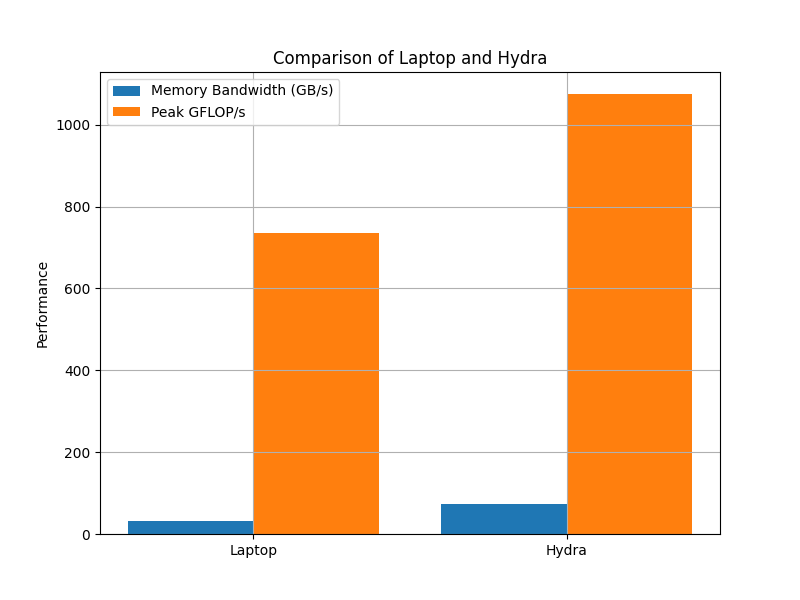
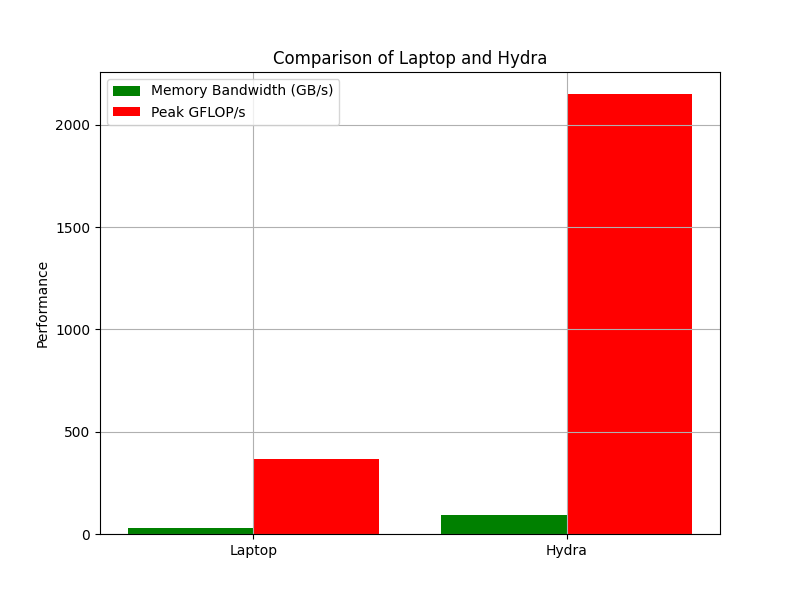
Updated roofline model calculations

diff --git a/roofline_model_plot.py b/roofline_model_plot.py
@@ -8,33 +8,34 @@ def parse_lscpu(file):
     with open(file) as f:
         text = f.read()
 
-    # logical cores (used for peak performance)
-    cores = int(re.search(r"CPU\(s\):\s+(\d+)", text).group(1))
 
-    # physical cores 
-    physical_cores_match = re.search(r"Core\(s\) per socket:\s+(\d+)", text)
+    # physical cores  = sockets × cores per socket   
+    sockets = int(re.search(r"Socket\(s\):\s+(\d+)", text).group(1))
+    cores_per_socket = int(re.search(r"Core\(s\) per socket:\s+(\d+)", text).group(1))
 
-    if physical_cores_match:
-        physical_cores = int(physical_cores_match.group(1))
-    else:
-        physical_cores = cores
+    physical_cores = sockets * cores_per_socket
 
     # detect AVX level and compute FLOPs/cycle
+    # NOTE: derived from SIMD width + FMA units
     flags = text.lower()
 
     if "avx512" in flags:
+        # 512-bit SIMD = 8 doubles per vector
+        # 2 FLOPs per FMA × 2 FMA units (Skylake-SP model)
         flops_per_cycle = 32
-        instruction_set = "AVX-512"
+        instruction_set = "AVX-512 (8 doubles × 2 FLOPs × 2 FMA units)"
 
     elif "avx2" in flags:
+        # 256-bit SIMD = 4 doubles per vector
+        # 2 FLOPs per FMA × 2 FMA units
         flops_per_cycle = 16
-        instruction_set = "AVX2"
+        instruction_set = "AVX2 (4 doubles × 2 FLOPs × 2 FMA units)"
 
     else:
         flops_per_cycle = 8
-        instruction_set = "SSE/Other"
+        instruction_set = "SSE/Other (fallback model)"
 
-    return cores, flops_per_cycle, instruction_set
+    return physical_cores, flops_per_cycle, instruction_set
 
 
 # Parse BabelStream output 
@@ -53,8 +54,8 @@ def parse_babel(file):
 
 # Frequency values for each machine (in MHz)
 FREQS = {
-    "Laptop": 2300,   # MHz (base frequency)
-    "Hydra": 2100     # MHz (Xeon base frequency)
+    "Laptop": 2300,   # 2.30 GHz sustained turbo frequency (from lscpu)
+    "Hydra": 2100     # 2.10 GHz base all-core frequency (from lscpu)
 }
 
 
@@ -65,7 +66,6 @@ def compute_peak_gflops(cores, freq_mhz, flops_per_cycle):
     # convert MHz → GHz
     freq_ghz = freq_mhz / 1000.0
 
-    # Roofline peak performance model
     return cores * freq_ghz * flops_per_cycle
 
 
@@ -92,24 +92,22 @@ for name, (cpu_file, babel_file) in machines.items():
     cores, flops, instruction_set = parse_lscpu(cpu_file)
 
     # Convert MB/s → GB/s
-    bw = parse_babel(babel_file) / 1000.0
+    bw = parse_babel(babel_file) / 1e3
 
     # theoretical compute roof
     gflops = compute_peak_gflops(cores, FREQS[name], flops)
 
     results[name] = (bw, gflops)
 
-    
-    print(f"{name} Roofline Parameters:")
-  
+    print(f"{name} Roofline Parameters===============================")
 
-    print(f"Logical cores       : {cores}")
+    print(f"Physical cores      : {cores}")
     print(f"Frequency (MHz)     : {FREQS[name]}")
     print(f"Instruction set     : {instruction_set}")
-    print(f"FLOPs/cycle         : {flops}")
+    print(f"FLOPs/cycle model   : {flops}")
 
     print("\nTheoretical Peak GFLOP/s Calculation:")
-    print(f"GFLOP/s = {cores} × ({FREQS[name]}/1000) × {flops}")
+    print(f"GFLOP/s = {cores} × ({FREQS[name]}/1e3) × {flops}")
 
     print(f"Peak Compute Roof   : {gflops:.2f} GFLOP/s")
     print(f"Memory Bandwidth    : {bw:.2f} GB/s")
@@ -126,15 +124,15 @@ def plot(name, bw, gflops):
     plt.figure(figsize=(8, 6))
 
     # memory roof
-    plt.loglog(ai, memory_perf, label="Memory Bandwidth Roof", color="blue")
+    plt.loglog(ai, memory_perf, color="blue", label="Memory Bandwidth Roof")
 
     # compute roof 
-    plt.loglog(ai, [gflops] * len(ai), label="Compute Roof", color="red")
+    plt.loglog(ai, [gflops] * len(ai), color="red", label="Compute Roof")
 
-    # ridge point (where memory and compute roofs intersect)
+    # ridge point
     ridge_ai = gflops / bw if bw > 0 else 0
 
-    plt.scatter([ridge_ai], [gflops], color="green", label="Ridge Point")
+    plt.scatter([ridge_ai], [gflops], color="black", s=100, label="Ridge Point")
 
     plt.title(f"Roofline Model - {name}")
     plt.xlabel("Arithmetic Intensity (FLOPs/Byte)")
@@ -150,7 +148,7 @@ for name in results:
     plot(name, *results[name])
 
 
-# Comparison plot of two machines:
+# Comparison plot:
 
 machine_names = list(results.keys())
 
@@ -161,8 +159,8 @@ x = range(len(machine_names))
 
 plt.figure(figsize=(8, 6))
 
-plt.bar([i - 0.2 for i in x], bandwidths, width=0.4, label="Memory Bandwidth (GB/s)")
-plt.bar([i + 0.2 for i in x], gflops_values, width=0.4, label="Peak GFLOP/s")
+plt.bar([i - 0.2 for i in x], bandwidths, width=0.4, color="green", label="Memory Bandwidth (GB/s)")
+plt.bar([i + 0.2 for i in x], gflops_values, width=0.4, color="red", label="Peak GFLOP/s")
 
 plt.xticks(x, machine_names)
 plt.ylabel("Performance")
@@ -170,4 +168,5 @@ plt.title("Comparison of Laptop and Hydra")
 
 plt.legend()
 plt.grid(True)
+
 plt.show()

diff --git a/whole_program_AI_plot.py b/whole_program_AI_plot.py
@@ -1,0 +1,145 @@
+import re
+import os
+import matplotlib.pyplot as plt
+
+
+# Hydra Roofline params from Ex 1
+HYDRA_BW = 72.99       # GB/s
+HYDRA_GFLOPS = 1075.2  # GFLOP/s
+
+
+RESULT_DIR = "results"
+
+
+# -----------------------------
+# PARSERS (FIXED FOR LIKWID)
+# -----------------------------
+
+def extract_flops(file_path):
+    with open(file_path, "r") as f:
+        text = f.read()
+
+    # LIKWID format:
+    # Rate (MFlops/s): XXXX
+    match = re.search(r"Rate\s+\(MFlops/s\):\s+([0-9]+\.[0-9]+)", text)
+
+    if match:
+        return float(match.group(1)) / 1000.0  # GFLOP/s
+
+    return None
+
+
+def extract_memory(file_path):
+    with open(file_path, "r") as f:
+        text = f.read()
+
+    # LIKWID format:
+    # Memory bandwidth [MBytes/s] XXXX
+    match = re.search(r"Memory bandwidth\s+\[MBytes/s\]\s+([0-9]+\.[0-9]+)", text)
+
+    if match:
+        return float(match.group(1)) / 1000.0  # GB/s
+
+    return None
+
+
+# -----------------------------
+# AI COMPUTATION
+# -----------------------------
+
+def compute_ai(flops_gflops, mem_gbs):
+    if flops_gflops is None or mem_gbs is None:
+        return None
+    return flops_gflops / mem_gbs
+
+
+# -----------------------------
+# ROOFLINE PLOT
+# -----------------------------
+
+def roofline_plot(stencil_type, dimension, data_points):
+
+    plt.figure(figsize=(9, 7))
+
+    ai_range = [0.01, 0.1, 1, 10, 100]
+
+    # memory roof
+    mem_roof = [HYDRA_BW * x for x in ai_range]
+    plt.loglog(ai_range, mem_roof, label="Memory Bandwidth Roof")
+
+    # compute roof
+    plt.loglog(ai_range, [HYDRA_GFLOPS] * len(ai_range),
+               label="Compute Roof")
+
+    markers = {2: "o", 16: "s", 32: "^"}
+    colors = {2: "blue", 10: "red"}
+
+    for p in data_points:
+
+        if p["ai"] is None:
+            continue
+
+        plt.scatter(
+            p["ai"],
+            p["performance"],
+            marker=markers[p["threads"]],
+            color=colors[p["iterations"]],
+            s=120,
+            label=f"t={p['threads']}, it={p['iterations']}"
+        )
+
+    # remove duplicate legend entries
+    handles, labels = plt.gca().get_legend_handles_labels()
+    unique = dict(zip(labels, handles))
+    plt.legend(unique.values(), unique.keys())
+
+    plt.xlabel("Arithmetic Intensity (FLOPs/Byte)")
+    plt.ylabel("Performance (GFLOP/s)")
+    plt.title(f"{stencil_type} stencil - {dimension}")
+    plt.grid(True, which="both")
+
+    plt.show()
+
+
+# -----------------------------
+# MAIN LOOP
+# -----------------------------
+
+dimensions = [1000, 50000]
+stencils = ["star", "compact"]
+iterations_list = [2, 10]
+threads_list = [2, 16, 32]
+
+
+for stencil in stencils:
+    for dim in dimensions:
+
+        data_points = []
+
+        for it in iterations_list:
+            for th in threads_list:
+
+                flops_file = f"{RESULT_DIR}/{stencil}_d{dim}_i{it}_t{th}_flops.txt"
+                mem_file = f"{RESULT_DIR}/{stencil}_d{dim}_i{it}_t{th}_mem.txt"
+
+                if not os.path.exists(flops_file) or not os.path.exists(mem_file):
+                    continue
+
+                flops = extract_flops(flops_file)
+                mem = extract_memory(mem_file)
+
+                ai = compute_ai(flops, mem)
+
+                data_points.append({
+                    "ai": ai,
+                    "performance": flops,
+                    "threads": th,
+                    "iterations": it
+                })
+
+                print(f"\n{stencil} dim={dim} it={it} t={th}")
+                print(f"FLOPs (GFLOP/s): {flops}")
+                print(f"Mem  (GB/s):     {mem}")
+                print(f"AI:              {ai}")
+
+        roofline_plot(stencil, dim, data_points)
